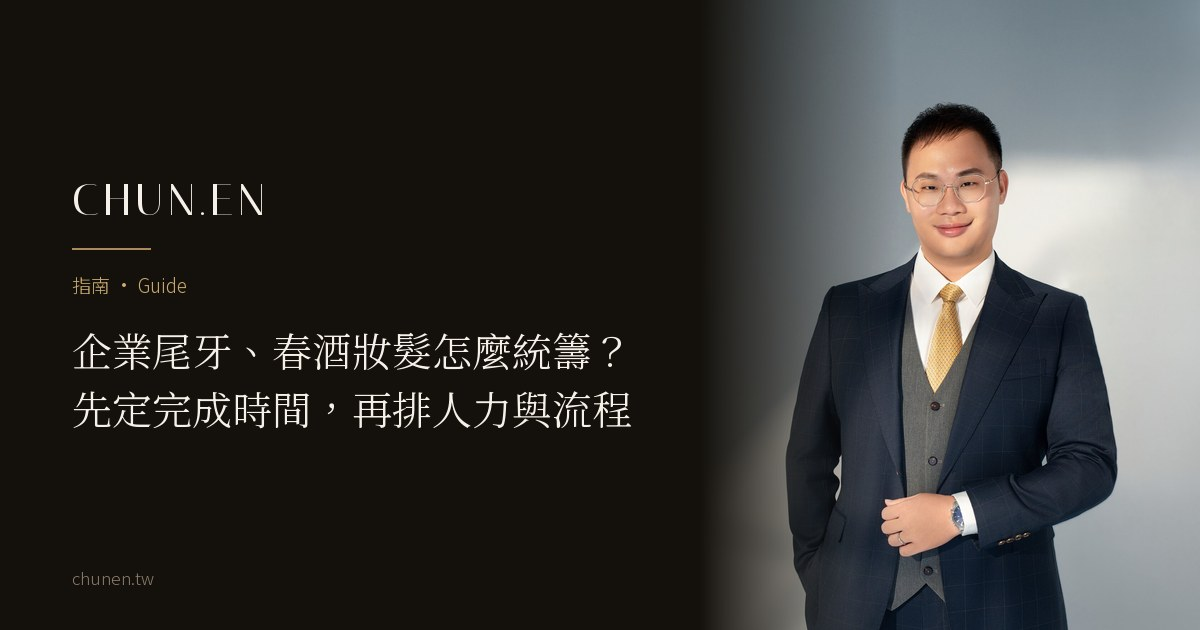
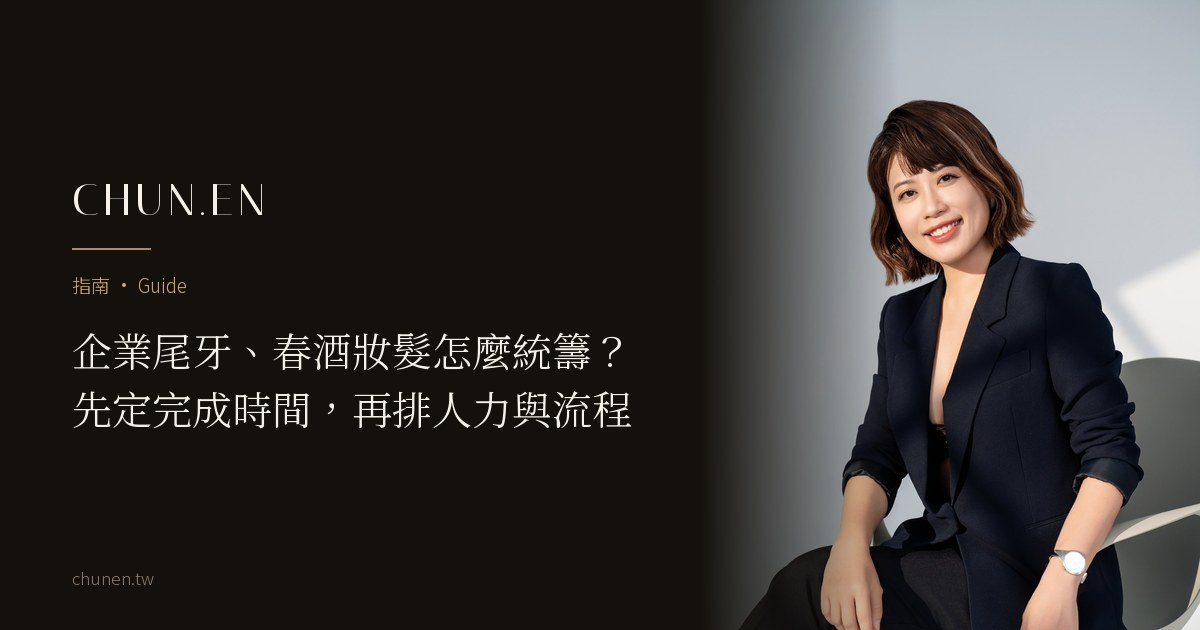
企業尾牙統籌預覽換客戶照主圖與分享卡（user 選 K；仍 noindex）

Changed region(s): [[0.6167, 0.0, 1.0, 1.0]]

diff --git a/journal/year-end-corporate-coordination.html b/journal/year-end-corporate-coordination.html
@@ -77,7 +77,7 @@
 
     <div class="wrap article-wrap">
       <div class="jcard-media rv" style="aspect-ratio: auto; width: auto; max-width: 620px; margin: 0 auto clamp(2.5rem, 6vh, 4rem);">
-        <picture style="display:block"><source type="image/webp" srcset="../assets/gallery/works/25-760.webp 760w, ../assets/gallery/works/25-1240.webp 1240w" sizes="(max-width: 700px) calc(100vw - 40px), 620px" /><img src="../assets/gallery/works/25-1400.jpg" alt="穿深藍格紋三件式西裝、繫金色領帶的男士，站在灰藍色背景前微笑" width="1400" height="2100" fetchpriority="high" style="width:100%;height:auto;display:block;" /></picture>
+        <picture style="display:block"><source type="image/webp" srcset="../assets/gallery/journal/year-end-corporate-coordination-hero-v1-760.webp 760w, ../assets/gallery/journal/year-end-corporate-coordination-hero-v1-1240.webp 1240w" sizes="(max-width: 700px) calc(100vw - 40px), 620px" /><img src="../assets/gallery/journal/year-end-corporate-coordination-hero-v1-1400.jpg" alt="穿深藍色西裝套裝的短髮女士，坐在白色椅子上微笑" width="1400" height="2100" fetchpriority="high" style="width:100%;height:auto;display:block;" /></picture>
       </div>
 
       <div class="keypoints rv">
@@ -199,7 +199,7 @@
     "@type": "Article",
     "headline": "企業尾牙、春酒妝髮怎麼統籌？先定完成時間，再排人力與流程",
     "description": "企業尾牙、春酒的多人妝髮，先確認彩排、合照與上台等環節需要完成哪套造型，再依最晚完成時間、可到場時間及現場人力安排。附承辦人可直接使用的排程資料表。",
-    "image": "https://chunen.tw/assets/gallery/works/25-1400.jpg",
+    "image": "https://chunen.tw/assets/gallery/journal/year-end-corporate-coordination-hero-v1-1400.jpg",
     "author": {
       "@type": "Person",
       "@id": "https://chunen.tw/author/zoey-wu.html#zoey",
